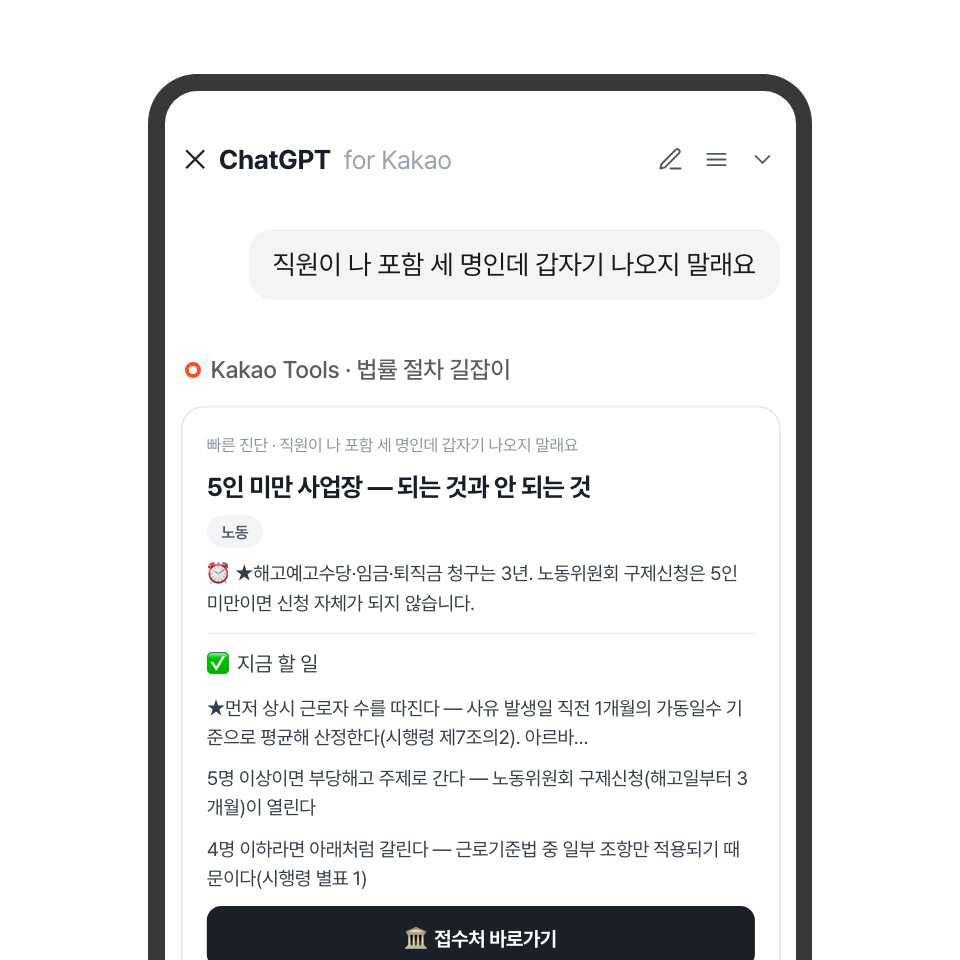
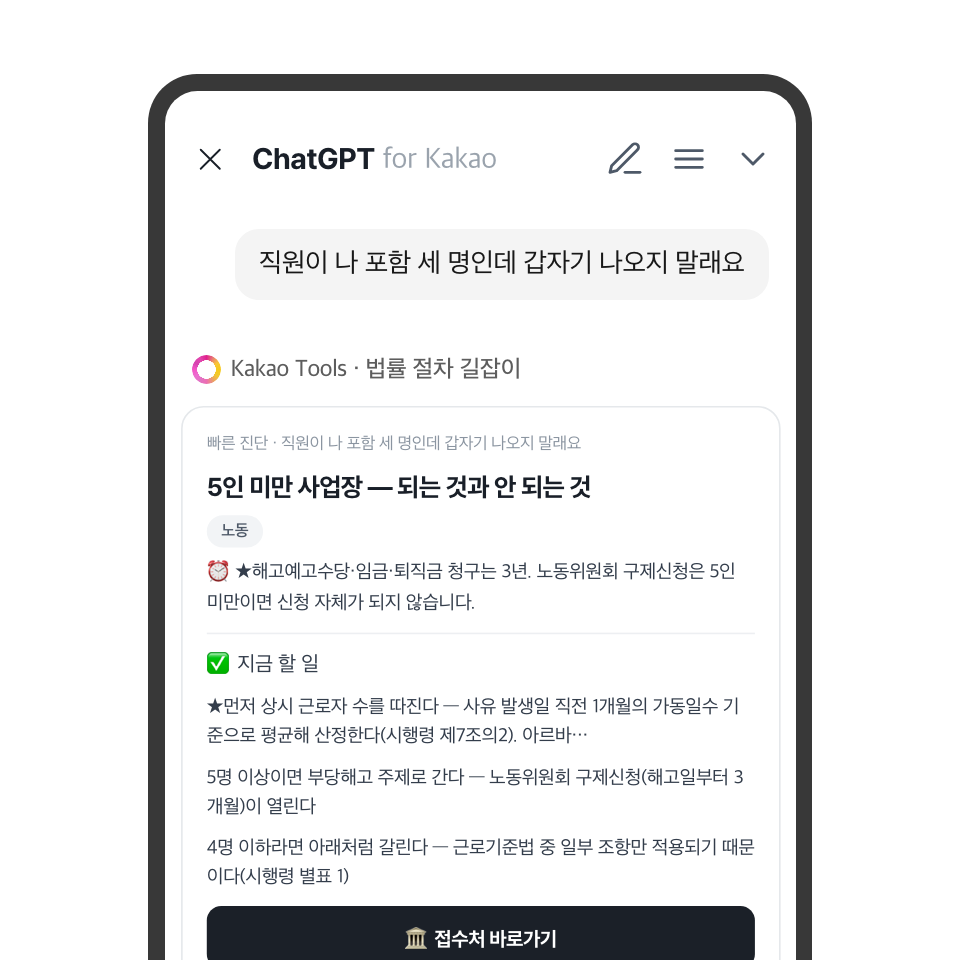
feat(assets): 소개 이미지 3차판 — 가이드 전 항목 실측 검증 + 분야 분산
가이드 PDF를 다시 정독하고 항목을 전부 뽑아 기계 검사기를 만들었다
(scripts/check-intro.mjs, npm run check:intro). 16항목 전부 통과.

새로 잡은 위반 셋:
1. 링(Kakao Tools 블릿)을 단색 주황으로 그렸다. 실제는 지름 29·획 5.3의
   원뿔 그라데이션(오른쪽 노랑→위 마젠타→왼쪽 분홍). 가이드 p.6이 변경을 금지한다.
2. 좌우 안쪽 여백이 20/16px이었다. 실측은 27px.
3. 상단바가 통째로 어긋나 있었다. ✕는 문자가 아니라 아이콘 상자여야 위치가 맞고,
   'ChatGPT'만 700이며 'for Kakao'는 400, 크기는 29.6px, 아이콘은 40px에 간격 24.
   → 텍스트 잉크 폭 242px로 가이드와 정확히 일치시켰다.

장면도 교체: 1·2차판은 5장 중 4장이 전부 임금체불이었다. 주제 279개·57개 분야를
다루는데 목록에선 노동 전문 도구로 보였다. 진단(노동)·체크리스트(임대차)·
서식(형사)·계산기(민사)·전화(일반)로 흩었고 채움률도 전부 60% 이상으로 올렸다.

테스트 241 통과.

diff --git a/docs/CONSOLE_META.md b/docs/CONSOLE_META.md
@@ -57,69 +57,75 @@
 유튜브에 저에 대한 가짜뉴스가 올라왔어요
 ```
 
-## 소개 이미지 5장 — ★2026-09-04 전면 교체 (2차: 공식 가이드 실측 반영) · ✅ 콘솔 업로드 완료 19:06
+## 소개 이미지 5장 — ★2026-09-04 3차판 (공식 가이드 전 항목 실측 검증)
 
-`assets/kakao-tools-examples/` — 960×960 · PNG · **바깥 투명 / 폰 화면 흰색**.
-**생성:** `npm run capture:intro` (= `scripts/capture-intro.mjs`)
+`assets/kakao-tools-examples/` — 960×960 PNG · **바깥 투명 / 폰 화면 흰색**.
 
-| | 파일 | 발화 | 카드 종류 | 답변영역 채움 |
-|---|---|---|---|---|
-| 1 | `01_오인미만해고` | 직원이 나 포함 세 명인데 갑자기 나오지 말래요 | 빠른 진단 | 100% |
-| 2 | `02_퇴직금계산` | 3년 일했고 월급 300만원인데 퇴직금 얼마예요? | 금액 계산기 | 61% |
-| 3 | `03_준비서류` | 임금체불 신고하려면 뭘 준비해야 해요? | 체크리스트 | 100% |
-| 4 | `04_서식카드` | 임금체불 진정서 양식 보여줘 | 서식 | 94% |
-| 5 | `05_전화바로걸기` | 변호사 살 돈이 없어요 | 무료지원 · `tel:` | 90% |
+```bash
+npm run capture:intro   # 생성 + 규격 검사
+npm run check:intro     # 검사만
+```
 
-순서는 이용자 여정 — 내 상황 → 얼마 → 뭘 준비 → 서류 작성 → 도움 받기.
-카드 종류가 하나도 겹치지 않는다.
+| | 파일 | 발화 | 카드 종류 | 분야 | 채움 |
+|---|---|---|---|---|---|
+| 1 | `01_오인미만해고` | 직원이 나 포함 세 명인데 갑자기 나오지 말래요 | 빠른 진단 | 노동 | 100% |
+| 2 | `02_전세준비서류` | 전세금 소송에 필요한 증거가 뭐예요? | 체크리스트 | 임대차 | 100% |
+| 3 | `03_사기고소장` | 사기 고소장 양식 보여줘 | 서식 | 형사 | 94% |
+| 4 | `04_소송비용계산` | 500만원 소송하면 비용이 얼마나 들어요? | 계산기 | 민사소송 | 72% |
+| 5 | `05_전화바로걸기` | 변호사 살 돈이 없어요 | 무료지원 `tel:` | 일반 | 90% |
 
-### 🔴 공식 가이드 실측값 — 이 좌표를 흔들지 말 것
+**카드 종류 5가지가 다 다르고, 분야도 다 다르다.** 1·2차판은 5장 중 4장이 전부
+임금체불이었다 — 주제 279개·57개 분야를 다루는데 목록에선 '노동 전문 도구'로 보였다.
+
+### 🔴 가이드 실측값 — 이 좌표를 흔들지 말 것
 출처 `~/Downloads/KakaoTools_서비스소개이미지제작가이드v1.1.pdf`.
-제작 예시(p.15)와 템플릿 도해(p.2)를 **300dpi로 렌더해 픽셀로 쟀다**(눈대중 아님).
+제작 예시(p.15)·템플릿 도해(p.2)를 **300dpi로 렌더해 픽셀로 쟀다**(눈대중 아님).
 
 ```
-캔버스 960×960
-폰 바깥폭 664 · 좌여백 148 · 우여백 148 · 상여백 74 · 프레임 16.5 · 모서리 49
-목업 색  #383838   ← 순검정이 아니다
-화면 안쪽 좌 164.2 · 폭 631.7 · 폰은 아래로 흘러 나감
-상단바 텍스트 중심 y159 / 말풍선 텍스트 중심 y264.5
-서비스명 중심 y370 / 답변 영역 y406~960
-질문 텍스트  Pretendard Regular 27px #181818   ← 가이드 p.3 "어떠한 경우에도 변경하지 않습니다"
-서비스명     Pretendard Medium  24px #5D5D5D   ← 가이드 p.5 같은 문구
-답변 이미지  width 393px · zoom 100% · DPR 2.0 캡처 → 631.7px 자리 (배율 1.6074)
+캔버스 960×960 · PNG · 바깥 투명
+폰      좌 148 · 상 74 · 폭 664 · 프레임 16.5 · 모서리 49 · 색 #383838(순검정 아님)
+화면    좌 164.2 · 폭 631.7 · 좌우 안쪽 여백 27 · 아래로 흘러 나감
+상단바  잉크 y144~174 · ✕ 아이콘 x199~220 · 텍스트 x254~496(폭 242) · 아이콘 x608~764
+        "ChatGPT"만 700, "for Kakao"는 400 · 29.6px
+말풍선  중심 y264.5 · 배경 #F4F4F4 · Pretendard Regular 27px #181818
+서비스명 중심 y370 · Pretendard Medium 24px #5D5D5D
+링      지름 29 · 획 5.3 · 원뿔 그라데이션(오른쪽 노랑 → 위 마젠타 → 왼쪽 분홍)
+답변    y406~960 · 393px 폭으로 그려 1.6074배(가이드 p.9 캡처 규격과 같은 결과)
 ```
 
-⛔ **가이드 p.16 Don't** — 배경 컬러 설정 금지 · 목업 컬러 변경 금지 · 목업 제거 금지 ·
-**위치 임의 조정 금지** · 템플릿 외 그래픽 추가 금지 · 960×960 유지.
+### ✅ 규격 검사 16항목 — `npm run check:intro`
+눈으로 보고 "괜찮은 것 같다"로 넘기지 않기 위해 만들었다. 9/4에 세 번 지적받았다.
 
-### 두 번 지적받았다
-- **1차(9/4 오전, 아린님)** — 폰 화면 안쪽이 투명이라 어두운 화면에서 검게 비쳤다.
-- **2차(9/4 오후, 아린님)** — *"비율이 조금 확대되어 나오고 있네요"*.
-  원인: 카드 길이에 맞춰 폰을 **1.22배까지 키우고 위아래로 옮겼다**. 가이드가 금지한 짓이다.
-  → 폰을 템플릿 고정 좌표(664/148/74)로 되돌리고, 대신 **말풍선이 2줄이면 아래가 밀리는**
-  흐름 배치로 바꿨다(가이드 p.4가 말하는 동작). 실측 결과 폰 폭 664·상단 74로 정확히 일치.
+| | 항목 | 근거 |
+|---|---|---|
+| ① | 960×960 1:1 | p.2 · p.16 |
+| ② | PNG | p.2 |
+| ③ | 바깥 투명 | p.2 "배경은 반드시 투명하게" |
+| ④ | 폰 화면 불투명 | 1차 지적 |
+| ⑤ | 목업 색 #383838 | p.16 "목업 컬러 변경 금지" |
+| ⑥⑦ | 폰 좌표 148/664/74 | p.16 "위치 임의 조정 금지" |
+| ⑧ | 질문 2줄 이내 | p.4 "최대 2줄 40자 권장" |
+| ⑨ | 질문 색 #181818 | p.3 "어떠한 경우에도 변경하지 않습니다" |
+| ⑩⑪ | 서비스명 위치·색 #5D5D5D | p.5 같은 문구 |
+| ⑫⑬ | 링 지름 29 · 그라데이션 | p.6 "블릿을 임의로 변경 금지" |
+| ⑭ | 상단바 위치 | 템플릿 목업 |
+| ⑮ | 답변 시작 위치 | p.13 "답변 이미지가 잘린 경우" |
+| ⑯ | 답변 채움 60%↑ | 가이드 규칙 아님 — 우리 품질 기준 |
 
 ### 🔴 배경 — 바깥은 투명, 폰 화면 안쪽은 흰색. 두 자리는 다르다
 
-세 번 지적받고서야 정리됐다. **내가 1차 지적을 잘못 알아들은 것이 원인이다.**
+**1차 지적을 잘못 알아들은 것이 사고의 시작이었다.**
+8/31 원본은 **바깥 투명(맞음) + 폰 화면 안쪽도 투명(틀림)** 이었다.
+아린님이 말한 "bg 투명"은 **화면 안쪽**이었는데 나는 **캔버스 전체**를 흰색으로 칠했고,
+그래서 3차 지적("좌우 여백에 흰색 설정이 잘못되었습니다")을 받았다.
+가이드 p.13 *"템플릿에 따라 제작하면 라이트/다크 모드 대응이 개발 적용되어 노출됩니다"* —
+**바깥이 투명이어야 그 대응이 작동한다.**
 
-| 자리 | 맞는 값 | 틀리면 |
-|---|---|---|
-| 폰 **바깥**(좌우·위 여백) | **투명** | 흰 판때기가 떠 보인다. 카카오가 라이트/다크에 맞춰 자기 배경을 깔기 때문 |
-| 폰 **화면 안쪽** | **흰색 불투명** | 어두운 모드에서 화면이 검게 비친다 |
-
-- **1차(9/4 오전)** — 아린님 *"소개이미지 bg가 투명 처리 되어있습니다. 흰색 처리 부탁"*.
-  8/31 원본을 실측하니 **바깥은 투명(맞음)인데 폰 화면 안쪽 빈 곳까지 투명**이었다.
-  아린님이 말한 건 **화면 안쪽**이었는데, 나는 **캔버스 전체**를 흰색으로 칠했다.
-- **3차(9/4 19:08)** — 아린님 *"좌우 여백에 흰색 설정이 잘못되었습니다"*. 그 과잉 수정 때문이다.
-- 지금은 크롬 `--default-background-color=00000000` + `body{background:transparent}`,
-  `.screen{background:#fff}`로 두 자리를 갈라 놨다.
-
-가이드 v1.1 p.2의 **"배경은 반드시 투명하게 제작해 주세요"**는 처음부터 맞는 말이었다.
-p.13 *"템플릿에 따라 제작하면 서비스 내에서 라이트/다크 모드 대응이 개발 적용되어 노출됩니다"* —
-투명이어야 그 대응이 작동한다.
-
-⛔ **바깥을 흰색으로 칠하지 말 것.** 검증 기준: 네 모서리 알파 0, 폰 화면 영역 알파 255.
+### 지적 세 번의 기록
+- **1차(9/4 오전)** 폰 화면 안쪽 투명 → 검게 비침
+- **2차(9/4 오후)** *"비율이 조금 확대되어 나오고 있네요"* — 카드 길이에 맞춰 폰을
+  1.22배까지 키우고 위아래로 옮겼다. 가이드 p.16이 금지한 짓이다.
+- **3차(9/4 19:08)** *"좌우 여백에 흰색 설정이 잘못되었습니다"* — 1차 과잉 수정
 
 ### 손으로 만들지 않는다
 8/31판은 손으로 만들었고 생성기가 없었다. 그래서 9/2에 서식 카드 캡션을 고쳤을 때
@@ -128,8 +134,8 @@ p.13 *"템플릿에 따라 제작하면 서비스 내에서 라이트/다크 모
 
 - 👉 **콘솔에 다시 업로드해야 반영된다**(재배포와 무관 — 이미지는 콘솔에만 있다).
 - 업로드용 사본: `~/Downloads/카카오툴즈_소개이미지/`
-- ⚠ Pretendard는 이 맥에 설치돼 있지 않아 CDN(jsDelivr)에서 불러온다. 오프라인이면
-  Apple SD Gothic Neo로 대체되어 글자 모양이 살짝 달라진다.
+- ⚠ Pretendard는 이 맥에 없어 CDN(jsDelivr)에서 불러온다. 오프라인이면 대체 폰트가
+  쓰여 ⑨⑪ 검사는 통과해도 글자 모양이 달라진다. 생성 후 `check:intro`를 꼭 볼 것.
 
 ---
 

diff --git a/HANDOFF.md b/HANDOFF.md
@@ -171,7 +171,9 @@ curl -s https://legal-navigator-kakaotools.playmcp-endpoint.kakaocloud.io/health
 - 명령: `npm test` · `npm run typecheck` · `npm run build` · 로컬 `WIDGETS=on PORT=4188 node dist/server.js`
 - 위젯 미리보기: `/widgets/{form|triage|calc|aid|procedure|checklist|deadline}` (aid는 `?lv=1`)
 - 소개 이미지 원본: `assets/kakao-tools-examples/` · 사본 `~/Downloads/카카오툴즈_소개이미지/`
-  ⏳ **9/4 19:5x 3차판 생성 완료 — 콘솔 업로드 대기**(진단·계산기·체크리스트·서식·전화).
+  ⏳ **9/4 20:0x 3차판 생성 완료 — 콘솔 업로드 대기**(진단·체크리스트·서식·계산기·전화).
+  `npm run check:intro` 규격 16항목 전부 통과. 분야도 노동·임대차·형사·민사·일반으로 흩었다
+  (1·2차판은 5장 중 4장이 임금체불이라 노동 전문 도구로 보였다).
   아린님 지적 세 번을 모두 반영한 판이다. ①폰 화면 안쪽 투명 → 흰색 ②비율 확대 →
   공식 가이드 PDF를 300dpi로 실측한 좌표(폰 664/좌148/상74/목업색 #383838)로 고정.
   ③좌우 여백을 흰색으로 칠한 것 → 바깥은 투명으로 되돌림(라이트/다크 대응 때문).
